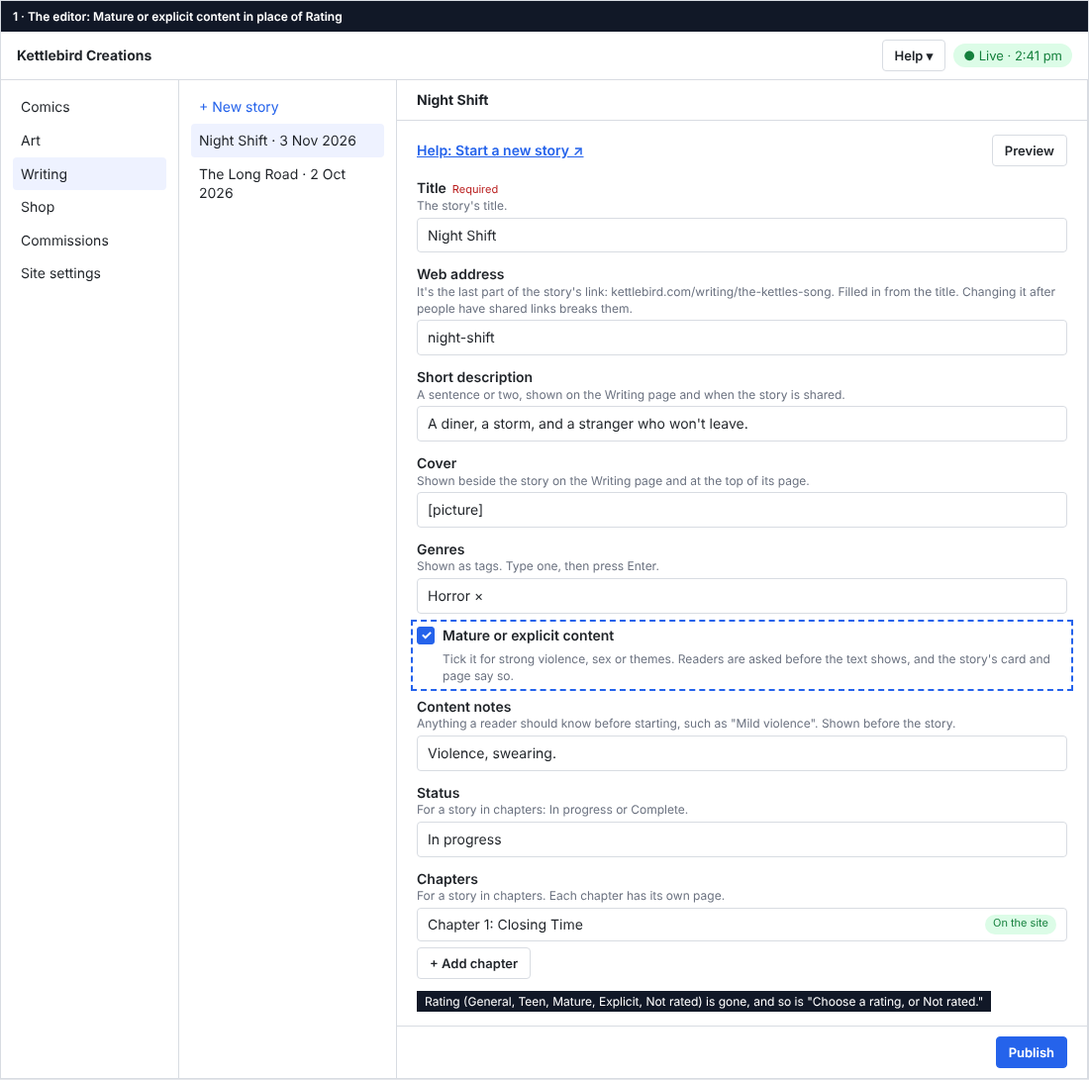
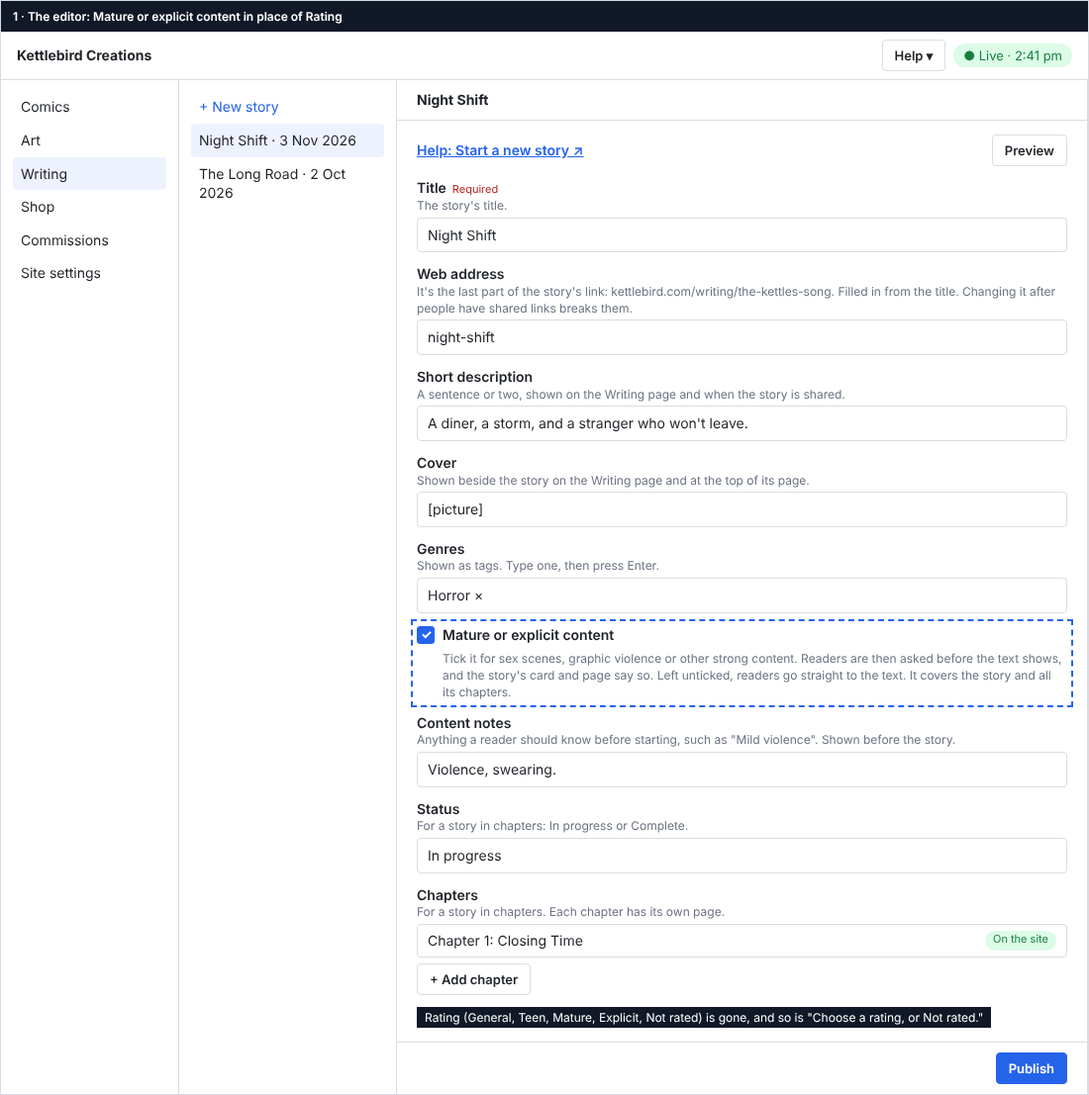
Design: mature or explicit content, with the second walkthrough's findings
One wording (Mature or explicit) everywhere; rating kept hidden and a
one-off change ticks the box for old Mature and Explicit stories; the
help text says unticked means readers aren't asked; preview and a
ticked story page mocked up; the remembered Continue kept.

Claude-Session: https://claude.ai/code/session_01HWRLNSVAoX5Ni8d8XcwJh1

diff --git a/docs/design/mockups/story-mature-content/mockups.html b/docs/design/mockups/story-mature-content/mockups.html
@@ -78,29 +78,40 @@
 <div class="f"><label>Short description</label><p class="h">A sentence or two, shown on the Writing page and when the story is shared.</p><div class="in">A diner, a storm, and a stranger who won't leave.</div></div>
 <div class="f"><label>Cover</label><p class="h">Shown beside the story on the Writing page and at the top of its page.</p><div class="in">[picture]</div></div>
 <div class="f"><label>Genres</label><p class="h">Shown as tags. Type one, then press Enter.</p><div class="in">Horror ×</div></div>
-<div class="f" style="outline:2px dashed var(--accent);outline-offset:4px"><span class="chk"><b class="on"></b><label style="display:inline">Mature or explicit content</label></span><p class="h" style="margin:3px 0 0 26px">Tick it for strong violence, sex or themes. Readers are asked before the text shows, and the story's card and page say so.</p></div>
+<div class="f" style="outline:2px dashed var(--accent);outline-offset:4px"><span class="chk"><b class="on"></b><label style="display:inline">Mature or explicit content</label></span><p class="h" style="margin:3px 0 0 26px">Tick it for sex scenes, graphic violence or other strong content. Readers are then asked before the text shows, and the story's card and page say so. Left unticked, readers go straight to the text. It covers the story and all its chapters.</p></div>
 <div class="f"><label>Content notes</label><p class="h">Anything a reader should know before starting, such as "Mild violence". Shown before the story.</p><div class="in">Violence, swearing.</div></div>
 <div class="f"><label>Status</label><p class="h">For a story in chapters: In progress or Complete.</p><div class="in">In progress</div></div>
 <div class="f"><label>Chapters</label><p class="h">For a story in chapters. Each chapter has its own page.</p><div class="chl"><div class="row"><span>Chapter 1: Closing Time</span><span class="pill">On the site</span></div></div><span class="ebtn">+ Add chapter</span></div>
 <span class="anno">Rating (General, Teen, Mature, Explicit, Not rated) is gone, and so is "Choose a rating, or Not rated."</span>
 </div><div class="bar"><span class="ebtn primary">Publish</span></div></div></div></div>
 
-<div class="frame" id="m2"><h6>2 · The Writing page's card and the top of the story's page: the Mature/explicit tag</h6><div class="site"><div class="shead"><div><div class="t">Kettlebird</div><div class="s">Comics + Illustration</div></div><div class="nav"><span>PORTFOLIO</span><span>COMICS</span><span>WRITING</span><span>SHOP</span><span>COMMISSIONS</span><span>ABOUT</span><span>NEWS</span></div></div>
+<div class="frame" id="m2"><h6>2 · The Writing page's card and the top of the story's page: the Mature or explicit tag (beige on the card, yellow on the page)</h6><div class="site"><div class="shead"><div><div class="t">Kettlebird</div><div class="s">Comics + Illustration</div></div><div class="nav"><span>PORTFOLIO</span><span>COMICS</span><span>WRITING</span><span>SHOP</span><span>COMMISSIONS</span><span>ABOUT</span><span>NEWS</span></div></div>
 <div style="max-width:1000px;margin:0 auto;padding:20px 24px 10px"><h1>Writing</h1>
-<div class="card"><div class="cover" style="height:200px">cover</div><div class="b"><div style="font:800 24px Nunito,system-ui">Night Shift</div><div style="margin:6px 0"><span class="tag">Horror</span><span class="tag r">Mature/explicit</span><span class="tag">In progress · 1 chapter</span></div><p style="margin:0 0 10px">A diner, a storm, and a stranger who won't leave.</p><span class="btn dark">Read</span></div></div>
+<div class="card"><div class="cover" style="height:200px">cover</div><div class="b"><div style="font:800 24px Nunito,system-ui">Night Shift</div><div style="margin:6px 0"><span class="tag">Horror</span><span class="tag">Mature or explicit</span><span class="tag">In progress · 1 chapter</span></div><p style="margin:0 0 10px">A diner, a storm, and a stranger who won't leave.</p><span class="btn dark">Read</span></div></div>
 <div class="card"><div class="cover" style="height:200px">cover</div><div class="b"><div style="font:800 24px Nunito,system-ui">The Kettle's Song</div><div style="margin:6px 0"><span class="tag">Cozy</span></div><p style="margin:0 0 10px">One winter night, the kettle sings.</p><span class="btn dark">Read</span> <span class="anno">Unticked: no tag, where it had "Rated Teen"</span></div></div></div>
-<div style="max-width:1000px;margin:0 auto;padding:10px 24px 30px;border-top:3px dashed var(--site)"><div style="display:grid;grid-template-columns:260px 1fr;gap:24px;margin-top:16px"><div class="cover" style="height:360px">cover</div><div><h1>Night Shift</h1><span class="tag">Horror</span><span class="tag r">Mature/explicit</span><span class="tag">In progress</span><p>A diner, a storm, and a stranger who won't leave.</p><span class="anno">The story's page: the same tag, above Before you read</span></div></div></div>
+<div style="max-width:1000px;margin:0 auto;padding:10px 24px 30px;border-top:3px dashed var(--site)"><div style="display:grid;grid-template-columns:260px 1fr;gap:24px;margin-top:16px"><div class="cover" style="height:360px">cover</div><div><h1>Night Shift</h1><span class="tag">Horror</span><span class="tag r">Mature or explicit</span><span class="tag">In progress</span><p>A diner, a storm, and a stranger who won't leave.</p><span class="anno">The story's page: the same tag, above Before you read</span></div></div></div>
 <div class="sfoot">© Kettlebird Creations</div></div></div>
 
 <div class="frame phone" id="m3"><h6>3 · Ticked, on a phone: Continue to the story</h6><div class="site"><div class="shead" style="padding:10px 16px"><div><div class="t" style="font-size:24px">Kettlebird</div><div class="s" style="font-size:11px">Comics + Illustration</div></div><div class="menu"><i></i><i></i><i></i></div></div><div style="padding:14px 16px 20px">
 <div style="font-size:15px"><span class="link">Night Shift</span></div><h1 style="font-size:28px">Chapter 1: Closing Time</h1>
 <div class="before" style="padding:14px"><strong>Before you read</strong><span style="font-weight:600">This story has mature or explicit content.</span><br>Violence, swearing.<div style="margin-top:12px"><span class="btn dark">Continue to the story</span></div></div>
-<span class="anno">After Continue, the text shows here, and the browser remembers for every story marked mature or explicit</span></div></div></div>
+<span class="anno">After Continue, the text shows here, and the browser remembers for every ticked story (and fans who continued before the change aren't asked again)</span></div></div></div>
 
 <div class="frame phone" id="m4"><h6>4 · Unticked, with content notes: the notes alone</h6><div class="site"><div class="shead" style="padding:10px 16px"><div><div class="t" style="font-size:24px">Kettlebird</div><div class="s" style="font-size:11px">Comics + Illustration</div></div><div class="menu"><i></i><i></i><i></i></div></div><div style="padding:14px 16px 20px">
 <h1 style="font-size:30px">The Kettle's Song</h1><div style="display:flex;gap:12px;align-items:flex-start"><div class="cover" style="width:90px;height:126px;flex:none">cover</div><div><span class="tag">Cozy</span><p style="margin:4px 0 0;font-size:15px">One winter night, the kettle sings.</p></div></div>
 <div class="before"><strong>Before you read</strong>A storm, and a scary dream.</div>
 <div class="col" style="font-size:17px"><p>The kitchen was cold when Fox came down, and the kettle, <em>as ever</em>, said nothing.</p><p>"You're early," Fox said.</p></div>
 <span class="anno">No line above the notes, and no tag. Without notes, no box at all</span></div></div></div>
+
+<div class="frame phone" id="m5"><h6>5 · Preview of a ticked story: the line and notes, no button</h6><div style="background:#111827;color:#fff;font:12px system-ui;padding:6px 12px">Preview · not published yet</div><div class="site"><div class="shead" style="padding:10px 16px"><div><div class="t" style="font-size:24px">Kettlebird</div><div class="s" style="font-size:11px">Comics + Illustration</div></div><div class="menu"><i></i><i></i><i></i></div></div><div style="padding:14px 16px 20px">
+<h1 style="font-size:30px">Night Shift</h1><div style="display:flex;gap:12px;align-items:flex-start"><div class="cover" style="width:90px;height:126px;flex:none">cover</div><div><span class="tag">Horror</span><span class="tag r">Mature or explicit</span><p style="margin:4px 0 0;font-size:15px">A diner, a storm, and a stranger who won't leave.</p></div></div>
+<div class="before"><strong>Before you read</strong><span style="font-weight:600">This story has mature or explicit content.</span><br>Violence, swearing.</div>
+<div class="col" style="font-size:17px"><p>The neon sign buzzed twice and went dark.</p><p>"We're closed," said Mara, without looking up.</p></div>
+<span class="anno">Preview: no Continue to the story; the text shows, as on the site after Continue</span></div></div></div>
+
+<div class="frame phone" id="m6"><h6>6 · A ticked story in chapters, on a phone: the chapter list hidden</h6><div class="site"><div class="shead" style="padding:10px 16px"><div><div class="t" style="font-size:24px">Kettlebird</div><div class="s" style="font-size:11px">Comics + Illustration</div></div><div class="menu"><i></i><i></i><i></i></div></div><div style="padding:14px 16px 20px">
+<h1 style="font-size:30px">Night Shift</h1><div style="display:flex;gap:12px;align-items:flex-start"><div class="cover" style="width:90px;height:126px;flex:none">cover</div><div><span class="tag">Horror</span><span class="tag r">Mature or explicit</span><span class="tag">In progress</span><p style="margin:4px 0 0;font-size:15px">A diner, a storm, and a stranger who won't leave.</p></div></div>
+<div class="before" style="padding:14px"><strong>Before you read</strong><span style="font-weight:600">This story has mature or explicit content.</span><br>Violence, swearing.<div style="margin-top:12px"><span class="btn dark">Continue to the story</span></div></div>
+<span class="anno">Start reading and the chapter list show after Continue to the story</span></div></div></div>
 </body>
 </html>

diff --git a/docs/design/story-mature-content.md b/docs/design/story-mature-content.md
@@ -26,44 +26,55 @@ reader's mock-ups) and render.mjs. -->
 
 ## The change
 
-This amends design-story-reader, "What Star enters", "Layout", "Flow: a fan", "Flow: Star", "Preview" and "States and errors": a story's **Rating** (General, Teen, Mature, Explicit or Not rated) is replaced by one checkbox.
+This amends design-story-reader, "What Star enters", "Layout", "Flow: a fan", "Flow: Star", "Preview" and "States and errors": a story's **Rating** (General, Teen, Mature, Explicit or Not rated) is replaced by one checkbox. One wording is used everywhere: **Mature or explicit**.
 
 ### In the editor (mock-up 1)
 
 - **Mature or explicit content**, a checkbox where **Rating** was, between **Genres** and **Content notes**. Stored as a yes or no (`mature`); unticked on a new story.
-- Its help text: "Tick it for strong violence, sex or themes. It covers the story and all its chapters. Readers are asked before the text shows, and the story's card and page say so."
+- Its help text: "Tick it for sex scenes, graphic violence or other strong content. Readers are then asked before the text shows, and the story's card and page say so. Left unticked, readers go straight to the text. It covers the story and all its chapters."
 - It's set on the story only: a chapter has no box of its own, and its page follows the story.
-- It isn't required: an unticked story is a story without mature or explicit content. The publish check "Choose a rating, or Not rated." goes, and so does "a rating" in the box listing what a story still needs.
+- It isn't required (Decisions, 3): unticked means readers aren't asked. The publish check "Choose a rating, or Not rated." goes, and so does "a rating" in the box listing what a story still needs.
 - **Content notes** stay as they are; their help text says where they show now: "Anything a reader should know before starting, such as "Mild violence". Shown before the story."
+- The rule of thumb, for the guide: tick the box for what would have been Mature or Explicit on AO3 (sex scenes, graphic violence, strong themes); write **Content notes** for anything else a reader may want to know first (some violence, swearing, a scary scene), ticked or not.
 
-### On the site (mock-ups 2, 3 and 4)
+### On the site (mock-ups 2, 3, 4 and 6)
 
 - **Ticked**:
-  - the story's Writing card and the top of its page have a tag, **Mature/explicit**, in the yellow the rating tag has today;
-  - the story's page and each chapter page show **Before you read** with "This story has mature or explicit content.", the content notes under it if there are any, and **Continue to the story**. The text (or the chapter list) shows when the fan chooses it, and the browser remembers, for every such story on the site, as Mature and Explicit stories do today (the same remembered choice, so a fan who has already continued isn't asked again). Without scripts, the text shows under the box, as now.
+  - the story's Writing card and the top of its page have a tag, **Mature or explicit**, in the colours the rating tag has today: beige on the Writing card, yellow on the story's page;
+  - the story's page and each chapter page show **Before you read** with "This story has mature or explicit content.", the content notes under it if there are any, and **Continue to the story**. The text, or the chapter list, shows when the fan chooses it (mock-up 6 shows a story page with its chapter list hidden).
+  - The browser remembers the choice for every ticked story on the site, as it does today for Mature and Explicit stories. It's the same remembered choice (`kb-continue-rated` in the browser's storage, kept as it is), so a fan who continued on a Mature or Explicit story before the change isn't asked again on that browser, and one Continue covers every ticked story after it.
+  - Without scripts, the text shows under the box, as now.
 - **Unticked**:
   - no tag;
-  - with content notes, **Before you read** shows the notes alone (no line above them);
+  - with content notes, **Before you read** shows the notes alone (the "Not rated" line goes);
   - without content notes, no box: the text starts after the short description.
-- **Preview** shows the text whether the box is ticked or not, with no **Continue to the story** step, as now.
-- Search engines and link previews get nothing new: a shared link shows the title, short description and cover, as now.
+- Link previews and search engines carry no mature flag, as today: a shared link shows the title, short description and cover. That's unchanged by this design.
+
+### Preview (mock-up 5)
+
+**Preview** shows the text whether the box is ticked or not, with no **Continue to the story** step, as now. On a ticked story, **Before you read** shows "This story has mature or explicit content." and the notes, without the button, so Star sees the line readers will see; unticked, the notes alone, as on the site.
 
 ### Stories saved with a rating
 
-No stories are on the site yet except one test story, which the lead will upload again (2026-11-07). So nothing is carried over in the editor: the old **Rating** field goes, and a story saved with a rating shows the checkbox unticked until Star ticks it.
+No stories are on the site yet except one test story, which the lead will upload again (2026-11-07). Until it's gone, it still has a saved `rating` (such as `mature`), and two things would go wrong if the field were simply removed: the editor would show an "Unknown field" warning for it, and the editor's box would show unticked while the site still asks.
 
-To be safe while that test story is still there, the site treats a story whose saved rating is Mature or Explicit as ticked, so its gate can't drop away on the day the change ships. A story saved with General, Teen or Not rated shows no tag and no rating line. When the change ships, the lead or Star ticks the box on the test story if it's still there, so the editor and the site agree. The spec removes the safety net (and the stored ratings) once no story has one.
+So:
+- `rating` stays in the story's schema as a hidden field, so the editor shows no warning for it, and nothing shows it to Star.
+- The build includes a one-off change, run once when it ships: on every story whose `rating` is `mature` or `explicit`, it ticks **Mature or explicit content**; on every story, it removes `rating`. After it, the editor and the site agree.
+- Until it has run, the site counts a saved Mature or Explicit rating as ticked, so the gate can't drop away on the day the change ships. A saved General, Teen or Not rated shows no tag and no line.
+- Once no story has a `rating`, a later change removes the hidden field and the site's fallback.
 
 ## Where it applies
 
 | # | Where | After |
 |---|---|---|
-| 1 | The story's fields (`sanity-studio/schemas/objects/writtenWork.ts`, `sanity-studio/lib/editor-content.ts`) | **Mature or explicit content** (`mature`, a boolean) in place of **Rating**, with the help text above. |
+| 1 | The story's fields (`sanity-studio/schemas/objects/writtenWork.ts`, `sanity-studio/lib/editor-content.ts`) | **Mature or explicit content** (`mature`, a boolean) in place of **Rating**, with the help text above; `rating` kept as a hidden field. |
 | 2 | The story's publish checks (`sanity-studio/lib/stories.ts`, `story-checks.ts`, `actions/publishStory.tsx`) | No rating check or message; the "still needs" box no longer lists a rating. |
-| 3 | The site's stories (`src/lib/stories/source.ts`, `model.ts`) | `mature` read from Sanity (and an old Mature or Explicit rating counted as ticked); the tag, the box's line and the gate from it. |
-| 4 | The Writing card and story page (`WritingPage.astro`, `StoryPage.astro`) | The **Mature/explicit** tag in place of "Rated …". |
-| 5 | **Before you read** (`BeforeYouRead.astro`) | The ticked line and **Continue to the story**; the notes alone when unticked; no box without notes. |
-| 6 | Star's guide `publishing-stories.md` and the tutorials | As For the guide says. |
+| 3 | The one-off change (a Sanity migration in `sanity-studio/migrations/`) | Ticks the box where `rating` is Mature or Explicit, and removes `rating`. |
+| 4 | The site's stories (`src/lib/stories/source.ts`, `model.ts`) | `mature` read from Sanity, with a saved Mature or Explicit rating counted as ticked; the tag, the box's line and the gate from it. `beforeYouRead` drops the "Not rated" line; `ratingLine`, `gateLine` and `RATING_TITLES` give way to the one wording. |
+| 5 | The Writing card and story page (`WritingPage.astro`, `StoryPage.astro`) | The **Mature or explicit** tag in place of "Rated …", in the same colours. |
+| 6 | **Before you read** (`BeforeYouRead.astro`) and the gate (`StoryGate.astro`) | The ticked line, with **Continue to the story** outside preview; the notes alone when unticked; no box without notes. Both files' comments say "ticked" where they say "Mature or Explicit"; the storage key is kept. |
+| 7 | Star's guide `publishing-stories.md` and the tutorials | As For the guide says. |
 
 ## Mock-ups
 
@@ -72,9 +83,11 @@ Low-fidelity, in the style of the story reader's mock-ups. Source: `mockups/stor
 | # | What it shows | File |
 |---|---|---|
 | 1 | The editor: a story's fields, with **Mature or explicit content** in place of **Rating** | `mockups/story-mature-content/1-editor.png` |
-| 2 | The Writing page's card and the top of the story's page, with the **Mature/explicit** tag | `mockups/story-mature-content/2-card-and-page.png` |
+| 2 | The Writing page's card (beige tag) and the top of the story's page (yellow tag) | `mockups/story-mature-content/2-card-and-page.png` |
 | 3 | A ticked story's chapter on a phone: **Before you read** and **Continue to the story** | `mockups/story-mature-content/3-ticked-phone.png` |
 | 4 | An unticked story with content notes on a phone: the notes alone | `mockups/story-mature-content/4-unticked-notes-phone.png` |
+| 5 | Preview of a ticked story: the line and notes, no button, the text | `mockups/story-mature-content/5-preview-ticked.png` |
+| 6 | A ticked story in chapters on a phone: the tag, the box, the chapter list hidden | `mockups/story-mature-content/6-ticked-story-page-phone.png` |
 
 ## States and errors
 
@@ -82,61 +95,76 @@ Low-fidelity, in the style of the story reader's mock-ups. Source: `mockups/stor
 |---|---|
 | A new story | The box is unticked. |
 | Ticked | The tag on the card and page; **Before you read** with the line, any notes, and **Continue to the story**. |
-| Ticked, the fan has continued on another such story | The text shows straight away. |
+| Ticked, the fan has continued on any ticked (or before, Mature or Explicit) story | The text shows straight away. |
 | Ticked, without scripts | The box, then the text under it. |
 | Unticked, with content notes | **Before you read** with the notes only. |
 | Unticked, no content notes | No box, no tag. |
-| A story saved with a Mature or Explicit rating (the test story) | The site treats it as ticked; the editor shows the box unticked until Star ticks it or uploads the story again. |
+| Forgot to tick it | The story is published without a gate; ticking it and publishing again adds the tag and the question. The help text says unticked means readers aren't asked. |
+| The test story, before the one-off change | The editor shows no warning and nothing about `rating`; the site counts its Mature or Explicit rating as ticked. |
+| The test story, after it | The box is ticked where it was Mature or Explicit; `rating` is gone. |
 | Publishing a story with text or chapters | Only the web address is checked, as before; the rating check is gone. |
-| Preview | The text, ticked or not. |
+| Preview, ticked | The line and notes, no button, then the text. |
+| Preview, unticked | The notes alone, if any, then the text. |
 
 ## Accessibility
 
 - **Mature or explicit content** is a labelled checkbox, reached with Tab and set with Space, its help text tied to it as the other fields' are.
-- On the site, the tag is text, not only colour. **Before you read** stays a region named by its heading; "This story has mature or explicit content." is its first line, read before the button; **Continue to the story** is a button, and focus moves to the start of the text when it's chosen, as now.
+- On the site, the tag is text, not only colour, and reads "Mature or explicit" (no slash for screen readers to say). **Before you read** stays a region named by its heading; "This story has mature or explicit content." is its first line, read before the button; **Continue to the story** is a button, and focus moves to the start of the text when it's chosen, as now.
 
 ## For the guide
 
 Star's guide `publishing-stories.md` (not changed in this pull request):
+
 - `summary:` "Starting a story, pasting its text, chapters, and ratings." loses "ratings" (or, once the Word upload's guide changes land, "Starting a story, uploading its text, and chapters."); it's an existing guide, so the help menu needs nothing new.
-- "Start a new story" step 3 becomes "If the story has strong violence, sex or themes, tick **Mature or explicit content**. Readers are asked before the text shows, and the Writing page says so."; step 4's "It shows under the rating." becomes "It shows before the story."
-- The paragraph after the steps: a ticked story asks readers first (they see "This story has mature or explicit content.", your notes, and **Continue to the story**); unticked stories open straight to the text.
-- "Ratings and content notes" becomes "Mature content and content notes": the table of ratings goes; what to tick it for, and that content notes show before the story whether it's ticked or not; for milder things a reader may want to know (some violence, swearing), write them in **Content notes**, since there's no Teen rating any more.
-- "Check it, then publish": "The preview shows the text whatever the rating." becomes "The preview shows the text, ticked or not."
-- "If something goes wrong": the row for "Choose a rating, or Not rated." goes.
+- "Start a new story" step 3 becomes "If the story has sex scenes, graphic violence or other strong content, tick **Mature or explicit content**. Readers are asked before the text shows, and the Writing page says so. Left unticked, readers go straight to the text."; step 4's "It shows under the rating." becomes "It shows before the story."
+- The paragraph after the steps: a ticked story asks readers first (they see "This story has mature or explicit content.", your notes, and **Continue to the story**), once per browser for all ticked stories; unticked stories open straight to the text.
+- "Ratings and content notes" becomes "Mature content and content notes": the table of ratings goes; the rule of thumb (tick it for what would have been Mature or Explicit on AO3; content notes for anything else a reader may want to know, such as some violence or swearing, ticked or not). The section's HTML comment, "a starting point, close to AO3's; Star to confirm or rewrite them", stays, now about the rule of thumb.
+- "Check it, then publish": "The preview shows the text whatever the rating." becomes "The preview shows the text, ticked or not, with the line readers will see."
+- "If something goes wrong": the row for "Choose a rating, or Not rated." goes; a row for a story published without the tick by mistake: tick it and publish again.
 
 Elsewhere:
+
 - `docs/tutorials/publishing-stories.md` steps 2, 5 and 11, and `docs/tutorials/reading-stories.md` (its set-up, steps 1, 2, 8 and 9, and the derived-from line naming the guide's "Ratings and content notes" section) say "Rating", "Rated Teen" and "rated Mature"; they follow the checkbox.
-- design-story-import's "On the site" says "Mature and Explicit stories keep their text, pictures included, hidden until **Continue to the story**"; it reads as "stories marked mature or explicit" for the spec.
+- design-story-import's "On the site" says "Mature and Explicit stories keep their text, pictures included, hidden until **Continue to the story**"; it reads as "ticked stories" for the spec.
 
 ## For the spec to check
 
-- The field: label, help text, place, stored as `mature`, unticked by default, not required; **Rating** gone from the form.
+- The field: label, help text, place, stored as `mature`, unticked by default, not required; **Rating** gone from the form, `rating` hidden with no "Unknown field" warning.
 - The publish checks: no rating message; a story with text or chapters and a web address can be published unticked.
-- The site, ticked: the tag on the card and page; the box's line, notes and **Continue to the story**; the remembered choice shared with today's; without scripts, the text under the box; on a story's page and its chapter pages.
-- The site, unticked: no tag; the notes alone in the box; no box without notes.
+- The one-off change: ticks the box for `mature` and `explicit`, leaves it unticked for the others, removes `rating` everywhere, and can be run twice without harm.
+- The site, ticked: the tag (beige on the card, yellow on the page, "Mature or explicit"); the box's line, notes and **Continue to the story**; the chapter list hidden on a story's page; the remembered choice, `kb-continue-rated`, shared with today's; without scripts, the text under the box; on a story's page and its chapter pages.
+- The site, unticked: no tag; the notes alone in the box, no "Not rated"; no box without notes.
 - A story saved with a Mature or Explicit rating counts as ticked; General, Teen and Not rated show nothing.
-- Preview shows the text, ticked or not.
+- Preview: ticked shows the line and notes without the button; unticked the notes alone; the text either way.
 - Tests whose names or texts change (the story editor, organised editor, help, source, model, preview and e2e stories tests) recorded under `unlocks:`.
 
 ## Decisions at review
 
 Proposed, for the lead to confirm or change:
-1. The field is **Mature or explicit content**, a checkbox, unticked by default and not required.
-2. The tag reads **Mature/explicit**, Star's own words. Screen readers say it as "Mature slash explicit". (Other wordings: "Mature or explicit", "Mature", "18+".)
-3. The box's line reads "This story has mature or explicit content."
-4. Unticked stories show no tag and no rating line; content notes alone still show in **Before you read**.
-5. A story saved with a Mature or Explicit rating counts as ticked on the site until no story has one, so the test story can't lose its gate. The simpler choice, dropping old ratings at once, is safe only if the test story is unpublished or uploaded again before the change ships.
-6. A fan who continued on a Mature or Explicit story before the change isn't asked again on that browser.
+
+1. The field is **Mature or explicit content**, a checkbox, unticked by default.
+2. One wording everywhere: the tag reads **Mature or explicit**, and the box "This story has mature or explicit content." (Star wrote "mature/explicit"; the slash is read aloud by screen readers. Other tags: "Mature", "18+".)
+3. The box isn't required, so an unticked story is published without a gate, and a forgotten tick can't be told from a decided no. The help text says unticked means readers aren't asked. The alternative is a required Yes or No with nothing chosen at first, so every story is decided before it's published, at the cost of one more choice per story.
+4. Fans lose the General and Teen hints: unticked stories show no tag and no rating line, and content notes alone show in **Before you read**. That's Star's call: fewer gates, and Content notes for milder warnings.
+5. The test story: `rating` hidden, a one-off change ticks the box where it was Mature or Explicit and removes `rating`, and the site counts an old Mature or Explicit as ticked until then. The simpler choice, dropping old ratings at once, is safe only if the test story is unpublished or uploaded again before the change ships.
+6. The remembered Continue (`kb-continue-rated`) is kept, so fans who continued before aren't asked again, and one Continue covers every ticked story.
+7. Tag colours as today: beige on the Writing card, yellow on the story's page.
 
 ## Persona walkthrough
 
-One walkthrough, 2026-11-07, for persona-artist and persona-fan, read against design-story-reader, Star's guide `publishing-stories.md`, the fans' tutorial, and the site's and editor's code (`BeforeYouRead.astro`, `StoryGate.astro`, `lib/stories/model.ts`, `writtenWork.ts`). Nothing blocking. Addressed above:
-- **Misleading, for Star:**
-  - whether a chapter needs its own box (now: the help text says the box covers all the story's chapters, and chapters have none);
-  - the test story showing the box unticked in the editor while the site still asks (now: the lead or Star ticks it when the change ships; the States table says what each shows meanwhile);
-  - with General and Teen gone, where to warn about milder things (now: the guide points to **Content notes**, which show whether the box is ticked or not).
-- **Misleading, for fans:**
-  - a story that was "Rated Teen" now shows nothing above its text unless it has notes; fans who know AO3 lose that hint (accepted as Star's choice; the guide asks Star to use content notes for it);
-  - "Mature/explicit" is read as "Mature slash explicit" by screen readers (understandable; another wording is listed under Decisions).
-- **Unchanged and checked:** a fan who has continued once isn't asked again on that browser, for any such story, as today; without scripts the text shows under the box; preview never asks.
+Two walkthroughs, both 2026-11-07, for persona-artist and persona-fan, read against design-story-reader, Star's guide `publishing-stories.md`, the fans' tutorial, and the site's and editor's code (`BeforeYouRead.astro`, `StoryGate.astro`, `lib/stories/model.ts`, `WritingPage.astro`, `StoryPage.astro`, `writtenWork.ts`). The first was done while writing the design; the second by the persona-walkthrough agent. Nothing blocking. Addressed above:
+
+- **For Star:**
+  - whether a chapter needs its own box (the help text says it covers all chapters; chapters have none);
+  - the test story: a removed `rating` would show as an "Unknown field" warning, and the editor's box would disagree with the site (now `rating` is hidden, a one-off change ticks the box and removes `rating`, and the site's fallback covers the gap);
+  - an unticked box can't tell a decided no from a forgotten tick (the help text says unticked means readers aren't asked; a required Yes or No is offered under Decisions; a States row and a guide row say how to fix a forgotten tick);
+  - where the box ends and Content notes begin (a rule of thumb for the guide, keeping "Star to confirm");
+  - which colour the tag is on the card and the page (beige and yellow, as today);
+  - what Preview shows for a ticked story (the line and notes without the button, mock-up 5).
+- **For fans:**
+  - the General and Teen hints go (under Decisions as Star's call, with Content notes for milder warnings);
+  - "Mature/explicit" read as "slash", and two wordings for one thing (now "Mature or explicit" everywhere);
+  - one remembered Continue covers all ticked stories, and older consents carry over (stated, with the key kept);
+  - a ticked story's page with its chapter list hidden (mock-up 6);
+  - link previews carry no mature flag (unchanged, and said).
+- **For the build:** `beforeYouRead` drops the "Not rated" line, and the comments in `BeforeYouRead.astro` and `StoryGate.astro` change (in Where it applies).
